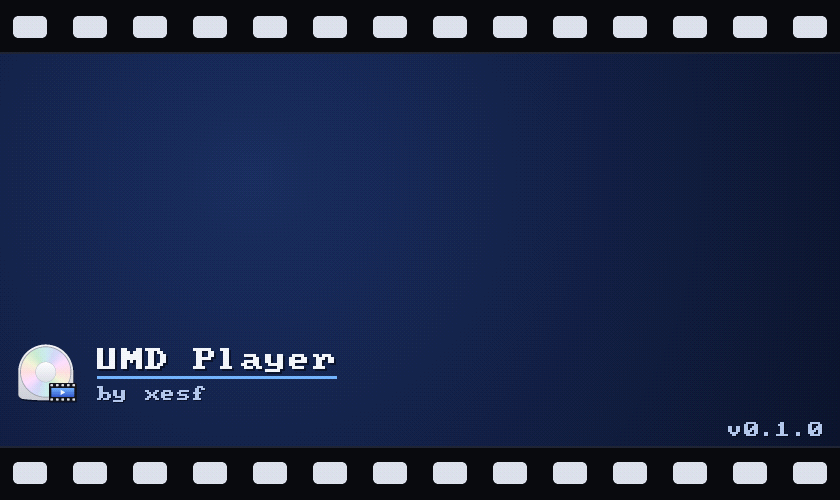
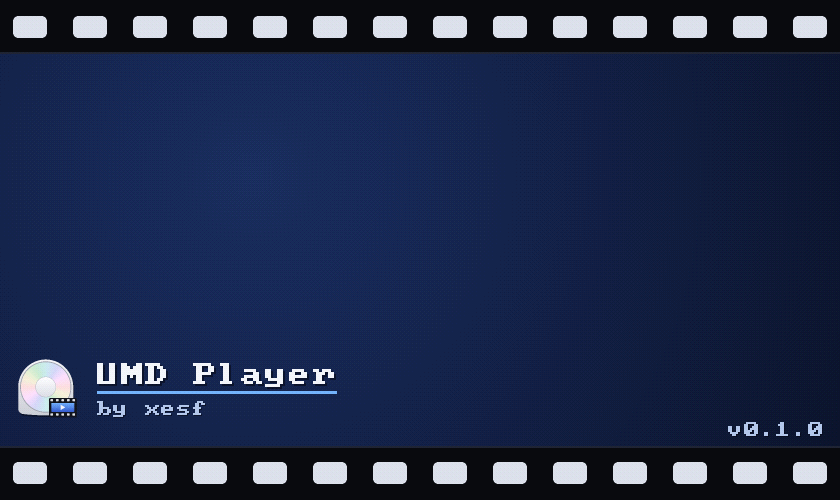
Move the LiveArea title group to y 355; content-rev 6

Changed region(s): [[0.0, 0.69, 0.4024, 0.84]]

diff --git a/tools/make_assets.py b/tools/make_assets.py
@@ -318,7 +318,7 @@ def bg(path):
     film_background(c, 54, 34, 22, 60)
     title, by, scale = 'UMD Player', 'by xesf', 3
     icon, gap = 64, 18
-    x, y = 15, 340                       # top left of the title group
+    x, y = 15, 355                       # top left of the title group
     emblem(c, x + icon * 0.48, y + 32, icon * 0.86)
     tx = x + icon + gap
     c.text(title, tx, y + 8, scale, WHITE)
@@ -341,7 +341,7 @@ def startup(path):
 
 
 TEMPLATE = '''<?xml version="1.0" encoding="utf-8"?>
-<livearea style="a1" format-ver="01.00" content-rev="5">
+<livearea style="a1" format-ver="01.00" content-rev="6">
   <livearea-background>
     <image>bg.png</image>
   </livearea-background>
